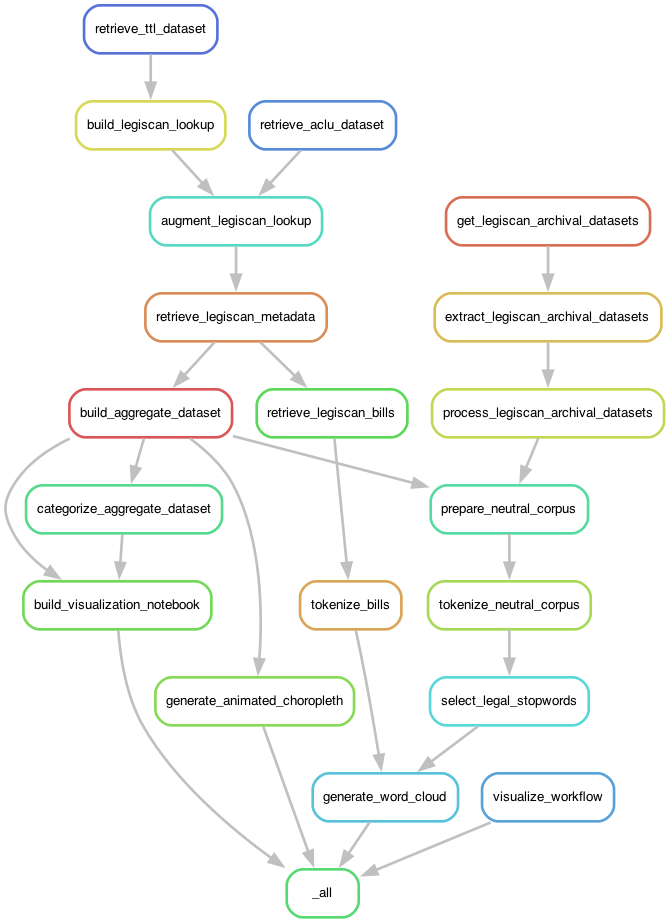
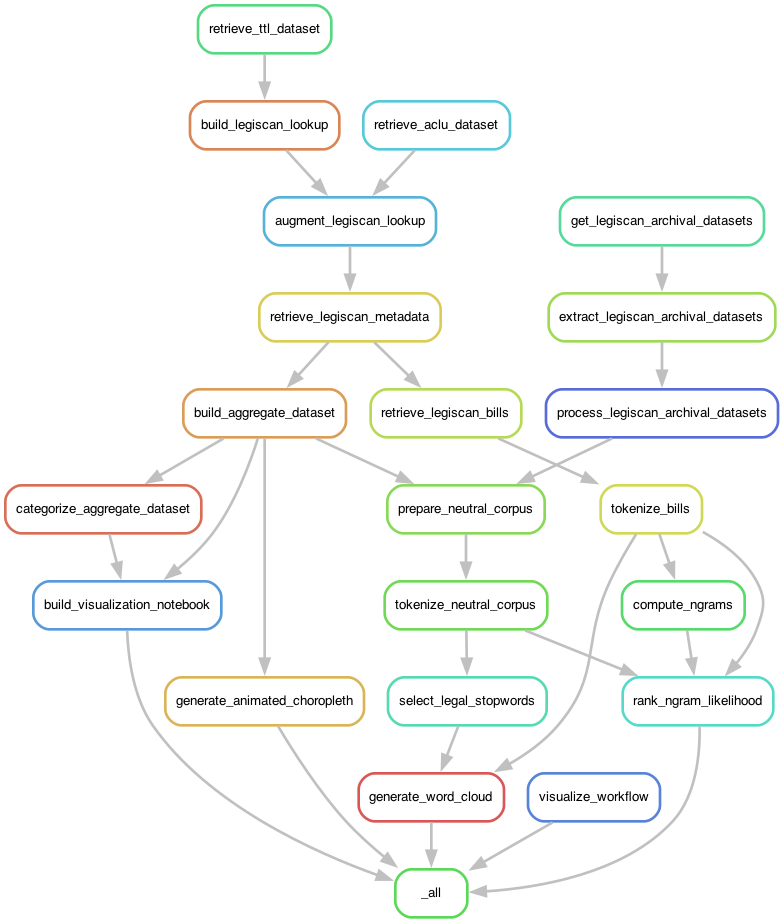
rank ngrams by probability

Changed region(s): [[0.0, 0.0, 1.0, 1.0], [0.2691, 0.8494, 0.3288, 0.8797], [0.2392, 0.8191, 0.2691, 0.8494]]

diff --git a/lib/tasks/calculate_ngram_likelihood.py b/lib/tasks/calculate_ngram_likelihood.py
@@ -1,0 +1,66 @@
+from functools import reduce
+from itertools import chain
+
+from nltk import FreqDist
+import typer
+
+from lib.util import load_json, write_json
+
+def est_phrase_probability(phrase, probs):
+    """Estimate probability of a given phrase"""
+    return reduce(
+        lambda x, y: x * probs[y],
+        phrase.split(' '),
+        1
+    )
+
+def calculate_ngram_likelihood(
+    ngrams_path: str,
+    bill_tokens_path: str,
+    neutral_tokens_path: str,
+):
+    """Calculate the likelihood of ngrams in corpus"""
+    ngrams = load_json(ngrams_path)
+    raw_tokens = chain(
+        load_json(bill_tokens_path),
+        load_json(neutral_tokens_path),
+    )
+
+    dist = FreqDist(raw_tokens)
+    token_count = reduce(lambda x, y: x+y, dist.values(), 0)
+
+    probabilities = {
+        k: v/token_count
+        for k, v
+        in dist.items()
+    }
+
+    return sorted([
+            [
+                phrase,
+                occurrences,
+                est_phrase_probability(phrase, probabilities)
+            ]
+            for phrase, occurrences
+            in ngrams.items()
+        ],
+        key = lambda n: n[1],
+    )
+
+def main(
+    ngrams_path: str,
+    bill_tokens_path: str,
+    neutral_tokens_path: str,
+    output_path: str,
+):
+    """The CLI for this task"""
+    ngram_probs = calculate_ngram_likelihood(
+        ngrams_path,
+        bill_tokens_path,
+        neutral_tokens_path,
+    )
+
+    write_json(ngram_probs, output_path)
+
+if __name__ == "__main__":
+    typer.run(main)

diff --git a/lib/tasks/generate_ngrams.py b/lib/tasks/generate_ngrams.py
@@ -1,0 +1,35 @@
+from typing import Dict
+
+from nltk import ngrams, FreqDist
+import typer
+
+from lib.util import load_json, write_json
+
+def generate_ngrams(
+    tokens_path: str,
+    ngram_length: int,
+    min_occurrences: int = 20,
+) -> Dict[str, int]:
+    """Get all ngrams of specified length and at least min freq"""
+    all_tokens = load_json(tokens_path)
+    raw_ngrams = ngrams(all_tokens, ngram_length)
+    dist = FreqDist(raw_ngrams)
+    return {
+        ' '.join(k): v
+        for k, v
+        in dist.items()
+        if v > min_occurrences
+    }
+
+def main(
+    tokens_path: str,
+    ngrams_path: str,
+    ngram_length: int = typer.Option(10),
+    min_occurrences: int = typer.Option(20),
+):
+    """The CLI for this task"""
+    frequent_ngrams = generate_ngrams(tokens_path, ngram_length, min_occurrences)
+    write_json(frequent_ngrams, ngrams_path)
+
+if __name__ == "__main__":
+    typer.run(main)
